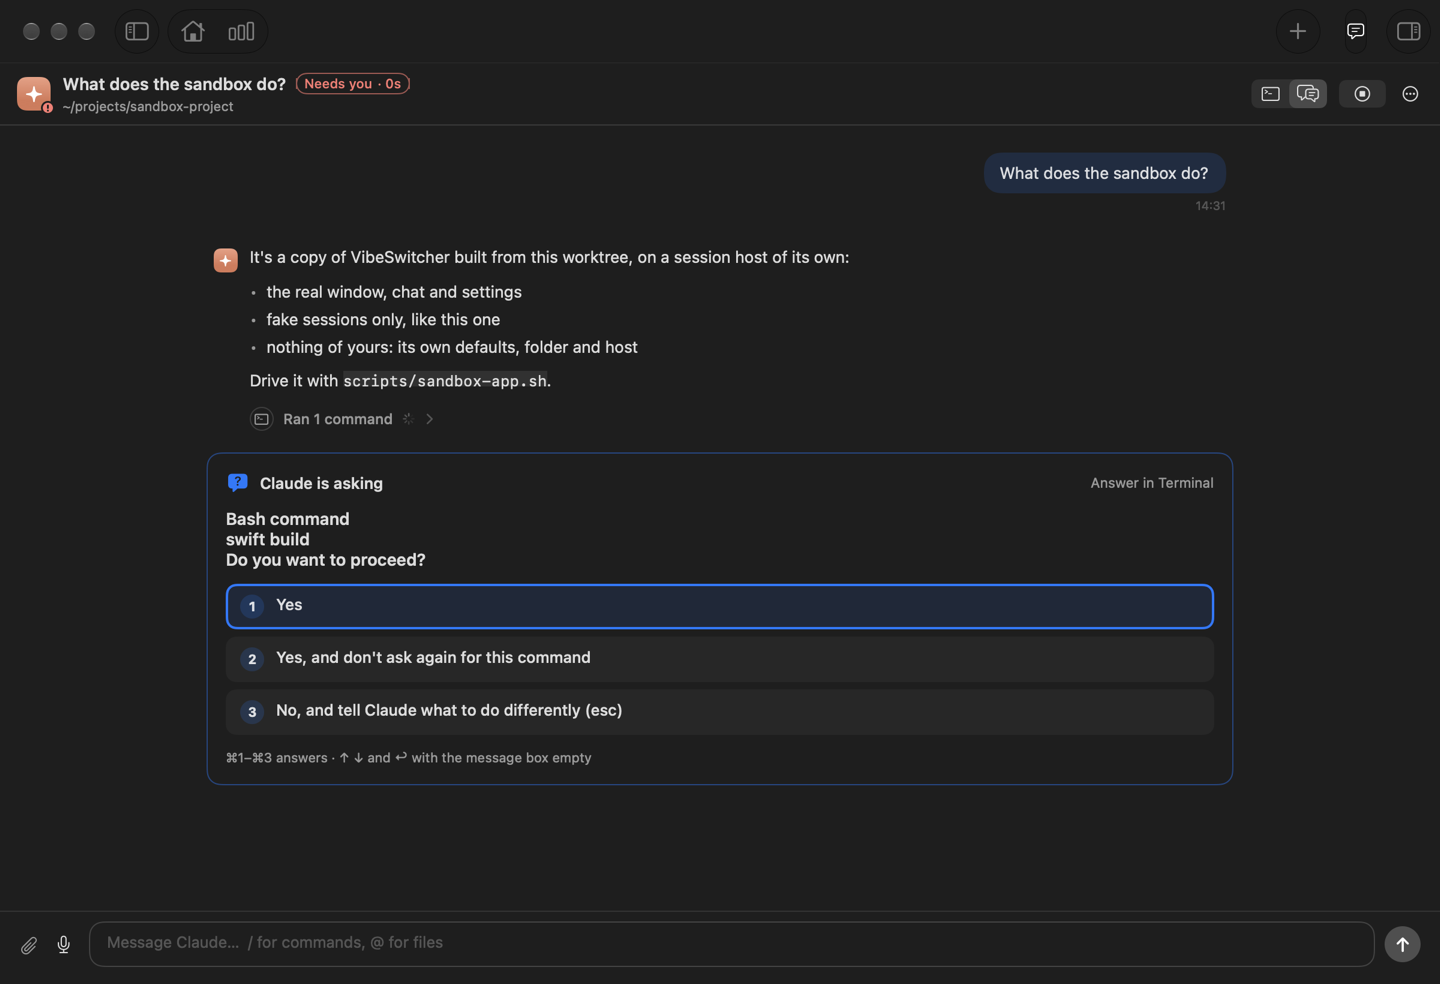
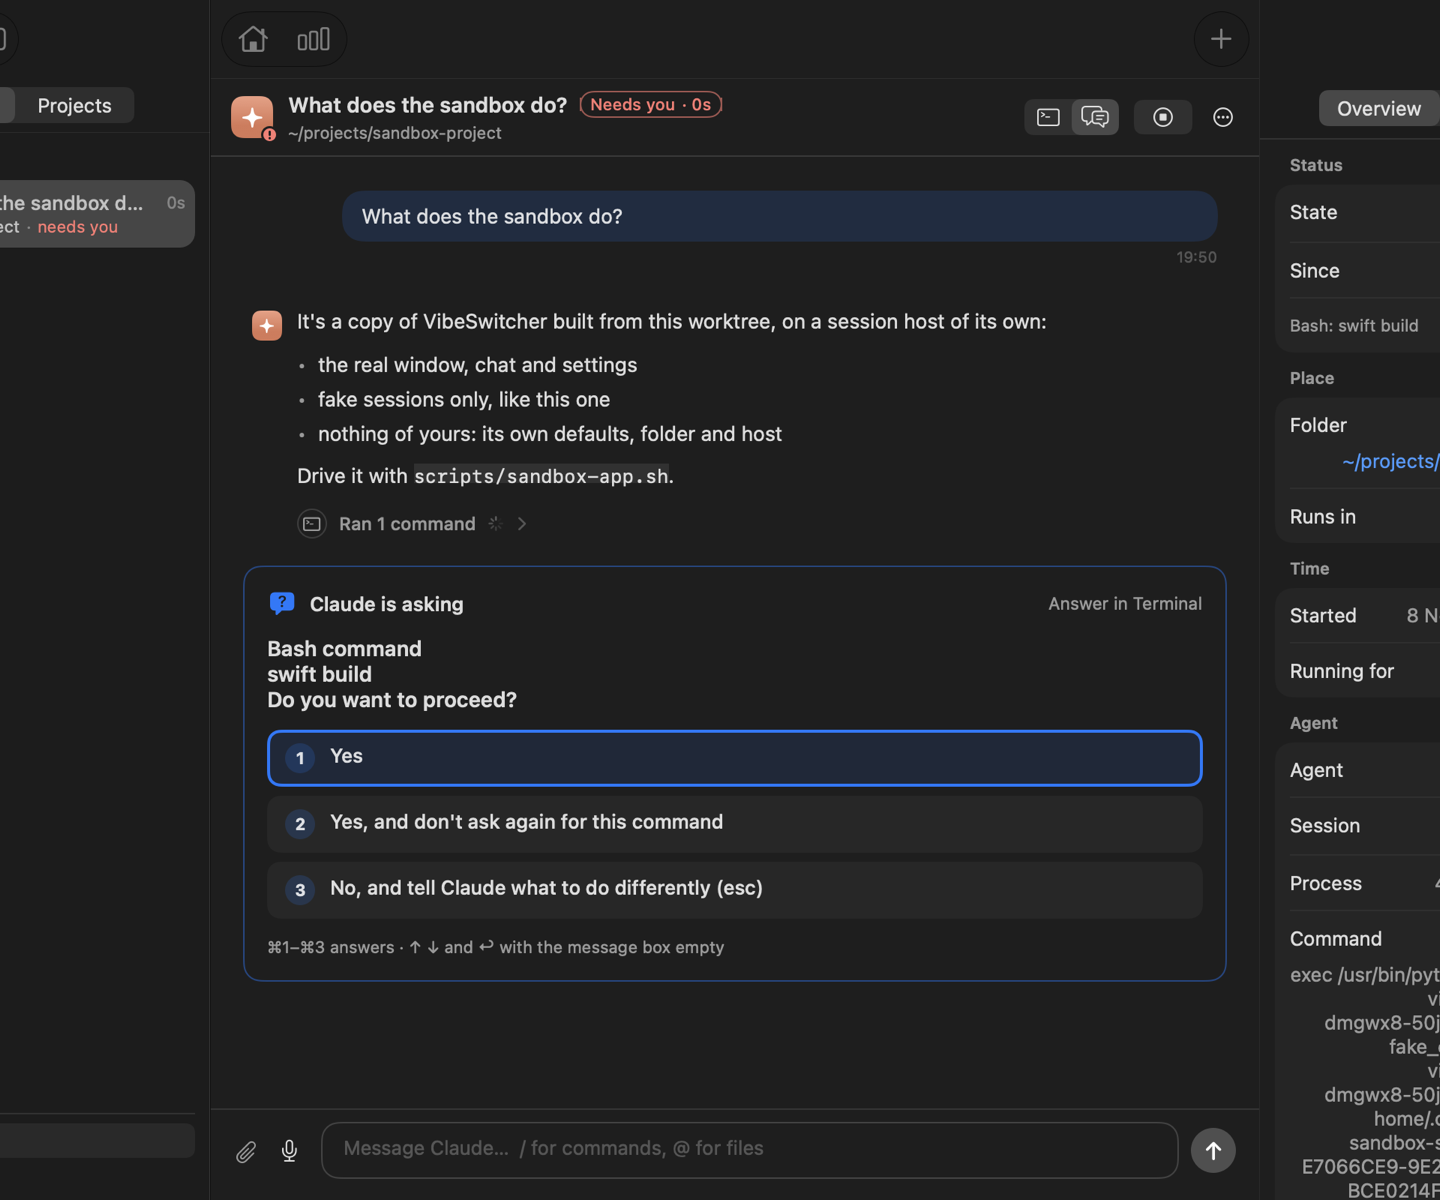
Shot's pixel check finds the side panes apart from the glass; docs images retaken with the session list and neutral text

diff --git a/Sources/VibeSwitcher/Sandbox.swift b/Sources/VibeSwitcher/Sandbox.swift
@@ -3107,11 +3107,16 @@ final class LiftedGlass {
 
     let window: NSWindow
     private(set) var panes: [Pane] = []
+    /// The window's side panes, found apart from the glass: if a macOS drew them some other way and nothing was lifted,
+    /// `problems` still looks at them.
+    private let sidePanes: [NSView]
 
     /// Lifts `window`'s glass panes (none before macOS 26, or when they're collapsed). Each `restore()` must follow.
     init(window: NSWindow) {
         self.window = window
-        guard #available(macOS 26, *), let root = window.contentView?.superview ?? window.contentView else { return }
+        let root = window.contentView?.superview ?? window.contentView
+        sidePanes = root.map(Self.sidePanes(in:)) ?? []
+        guard #available(macOS 26, *), let root else { return }
         func walk(_ view: NSView) {
             if let glass = view as? NSGlassEffectView, let wrapper = glass.superview,
                String(describing: type(of: wrapper)).contains("SplitViewItemViewWrapper") {
@@ -3121,6 +3126,18 @@ final class LiftedGlass {
             }
         }
         walk(root)
+    }
+
+    /// The split view's panes at an edge of it and narrow enough to be a sidebar or inspector, not the middle.
+    private static func sidePanes(in root: NSView) -> [NSView] {
+        var found: [NSView] = []
+        func walk(_ view: NSView) {
+            guard String(describing: type(of: view)).contains("SplitViewItemViewWrapper") else { return view.subviews.forEach(walk) }
+            guard !view.isHiddenOrHasHiddenAncestor, view.frame.width > 1, view.frame.width <= 420, let split = view.superview else { return }
+            if view.frame.minX < 1 || view.frame.maxX >= split.bounds.width - 1 { found.append(view) }
+        }
+        walk(root)
+        return found
     }
 
     @available(macOS 26, *)
@@ -3186,8 +3203,8 @@ final class LiftedGlass {
     func problems(view: NSView, image: NSBitmapImageRep, sidebarHasRows: Bool) -> [String] {
         let scale = CGFloat(image.pixelsWide) / max(view.bounds.width, 1)
         let dark = window.effectiveAppearance.bestMatch(from: [.aqua, .darkAqua]) == .darkAqua
-        return panes.compactMap { pane in
-            let rect = pane.wrapper.convert(pane.wrapper.bounds, to: view)
+        return sidePanes.compactMap { wrapper in
+            let rect = wrapper.convert(wrapper.bounds, to: view)
             let top = view.isFlipped ? rect.minY : view.bounds.height - rect.maxY
             let pixels = CGRect(x: rect.minX * scale, y: top * scale, width: rect.width * scale, height: rect.height * scale)
             let isSidebar = rect.minX < 1
